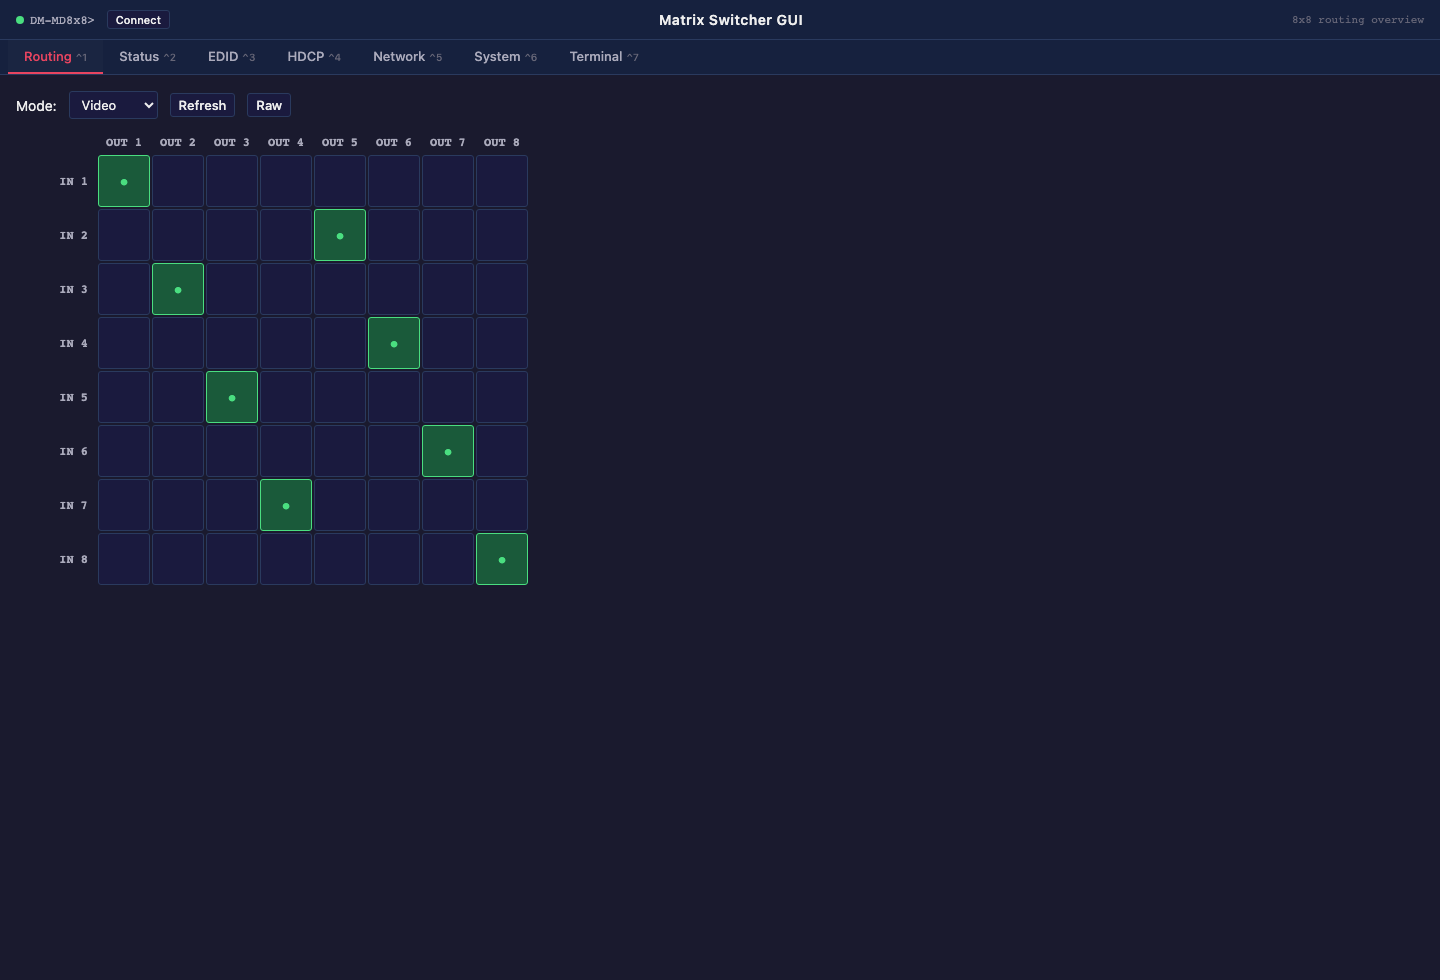
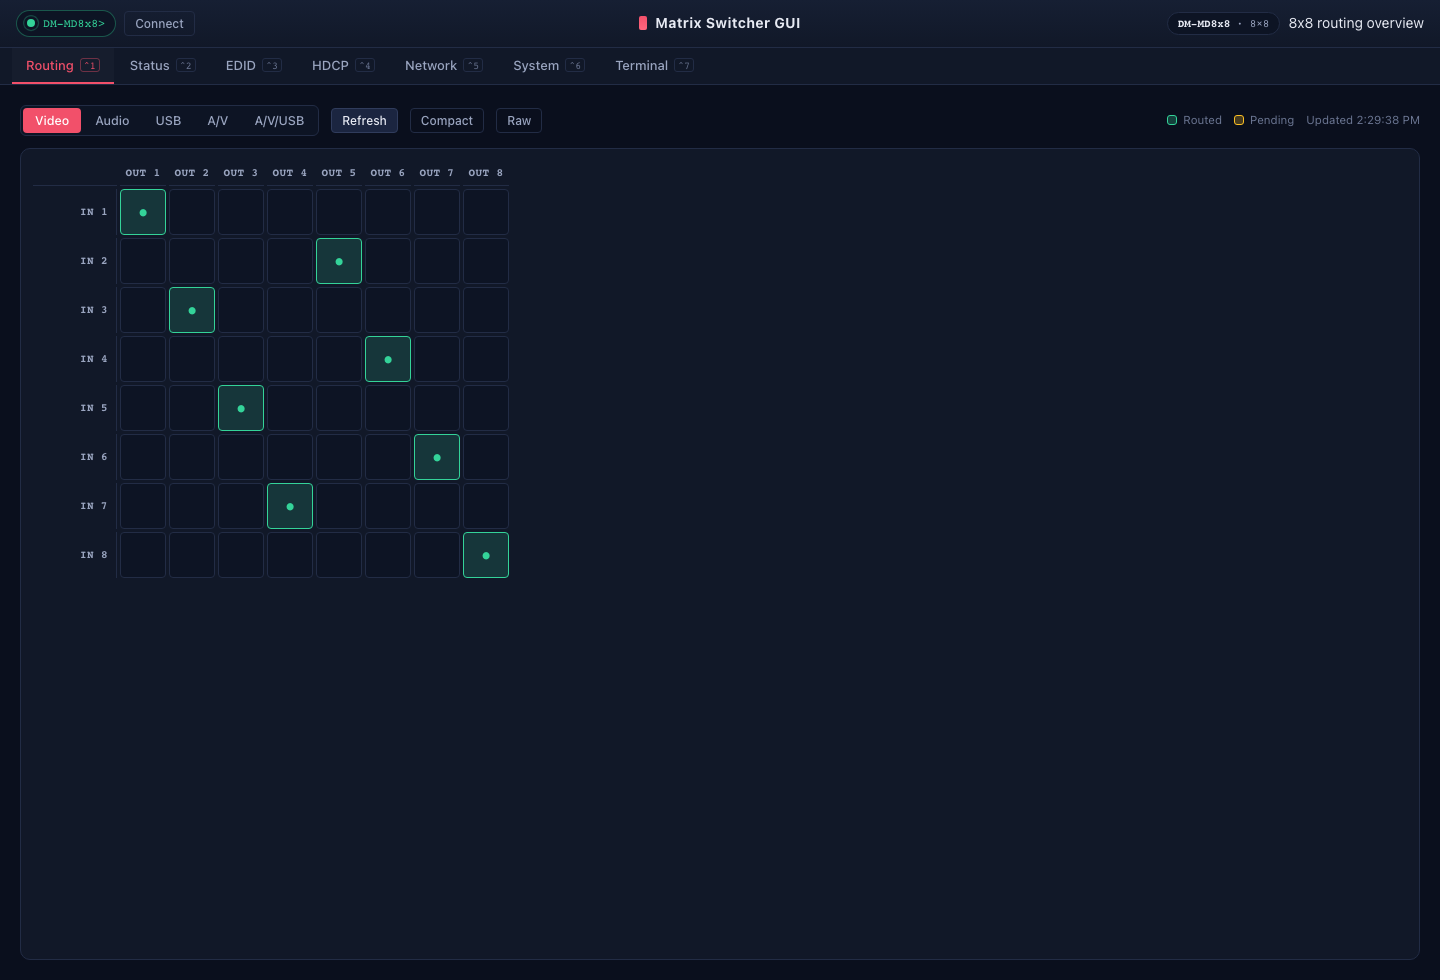
Clean up stale documentation and refresh README screenshots
- add the missing 0.0.3 changelog entry
- remove the stale 0.0.2-era launch post draft
- regenerate README screenshots against the refreshed UI
- update the capture script mocks for the capabilities-driven client

diff --git a/scripts/capture-readme-screenshot.js b/scripts/capture-readme-screenshot.js
@@ -15,13 +15,29 @@ const connectionState = {
   configured: true,
   host: 'demo-switch.local',
   port: 41795,
+  transport: 'ctp',
+  username: 'admin',
+  hasPassword: true,
   prompt: 'DM-MD8x8>'
+};
+
+const capabilitiesPayload = {
+  model: 'DM-MD8x8',
+  firmware: '4.102.352400074 (Sep 23 2019)',
+  serial: '00FFC818',
+  inputCount: 8,
+  outputCount: 8,
+  outputSlotOffset: 17,
+  cards: []
 };
 
 const routePayload = {
   video: { 1: 1, 2: 3, 3: 5, 4: 7, 5: 2, 6: 4, 7: 6, 8: 8 },
   audio: { 1: 1, 2: 3, 3: 5, 4: 7, 5: 2, 6: 4, 7: 6, 8: 8 },
   usb: { 1: 2, 2: 2, 3: 4, 4: 4, 5: 6, 6: 6, 7: 8, 8: 8 },
+  inputCount: 8,
+  outputCount: 8,
+  model: 'DM-MD8x8',
   raw: [
     'Routing Information for Output Card at Slot 17',
     'Video Routed From Input Card at slot 1',
@@ -160,6 +176,14 @@ async function main() {
       status: 200,
       contentType: 'application/json',
       body: JSON.stringify(connectionState)
+    });
+  });
+
+  await page.route('**/api/capabilities', async (route) => {
+    await route.fulfill({
+      status: 200,
+      contentType: 'application/json',
+      body: JSON.stringify(capabilitiesPayload)
     });
   });
 

diff --git a/CHANGELOG.md b/CHANGELOG.md
@@ -1,5 +1,13 @@
 # Changelog
 
+## 0.0.3 Beta - unreleased
+
+- added SSH console transport alongside raw CTP
+- UI and card inventory now size themselves from the connected chassis, adding DM-MD16x16 support
+- refreshed browser UI with design tokens and matrix usability improvements
+- closed repository gaps: lint, tests, CI smoke test, and dependency security updates
+- consolidated the connection state payload and API error handling into shared server helpers
+
 ## 0.0.2 Beta - 2026-04-23
 
 - initial public beta release
